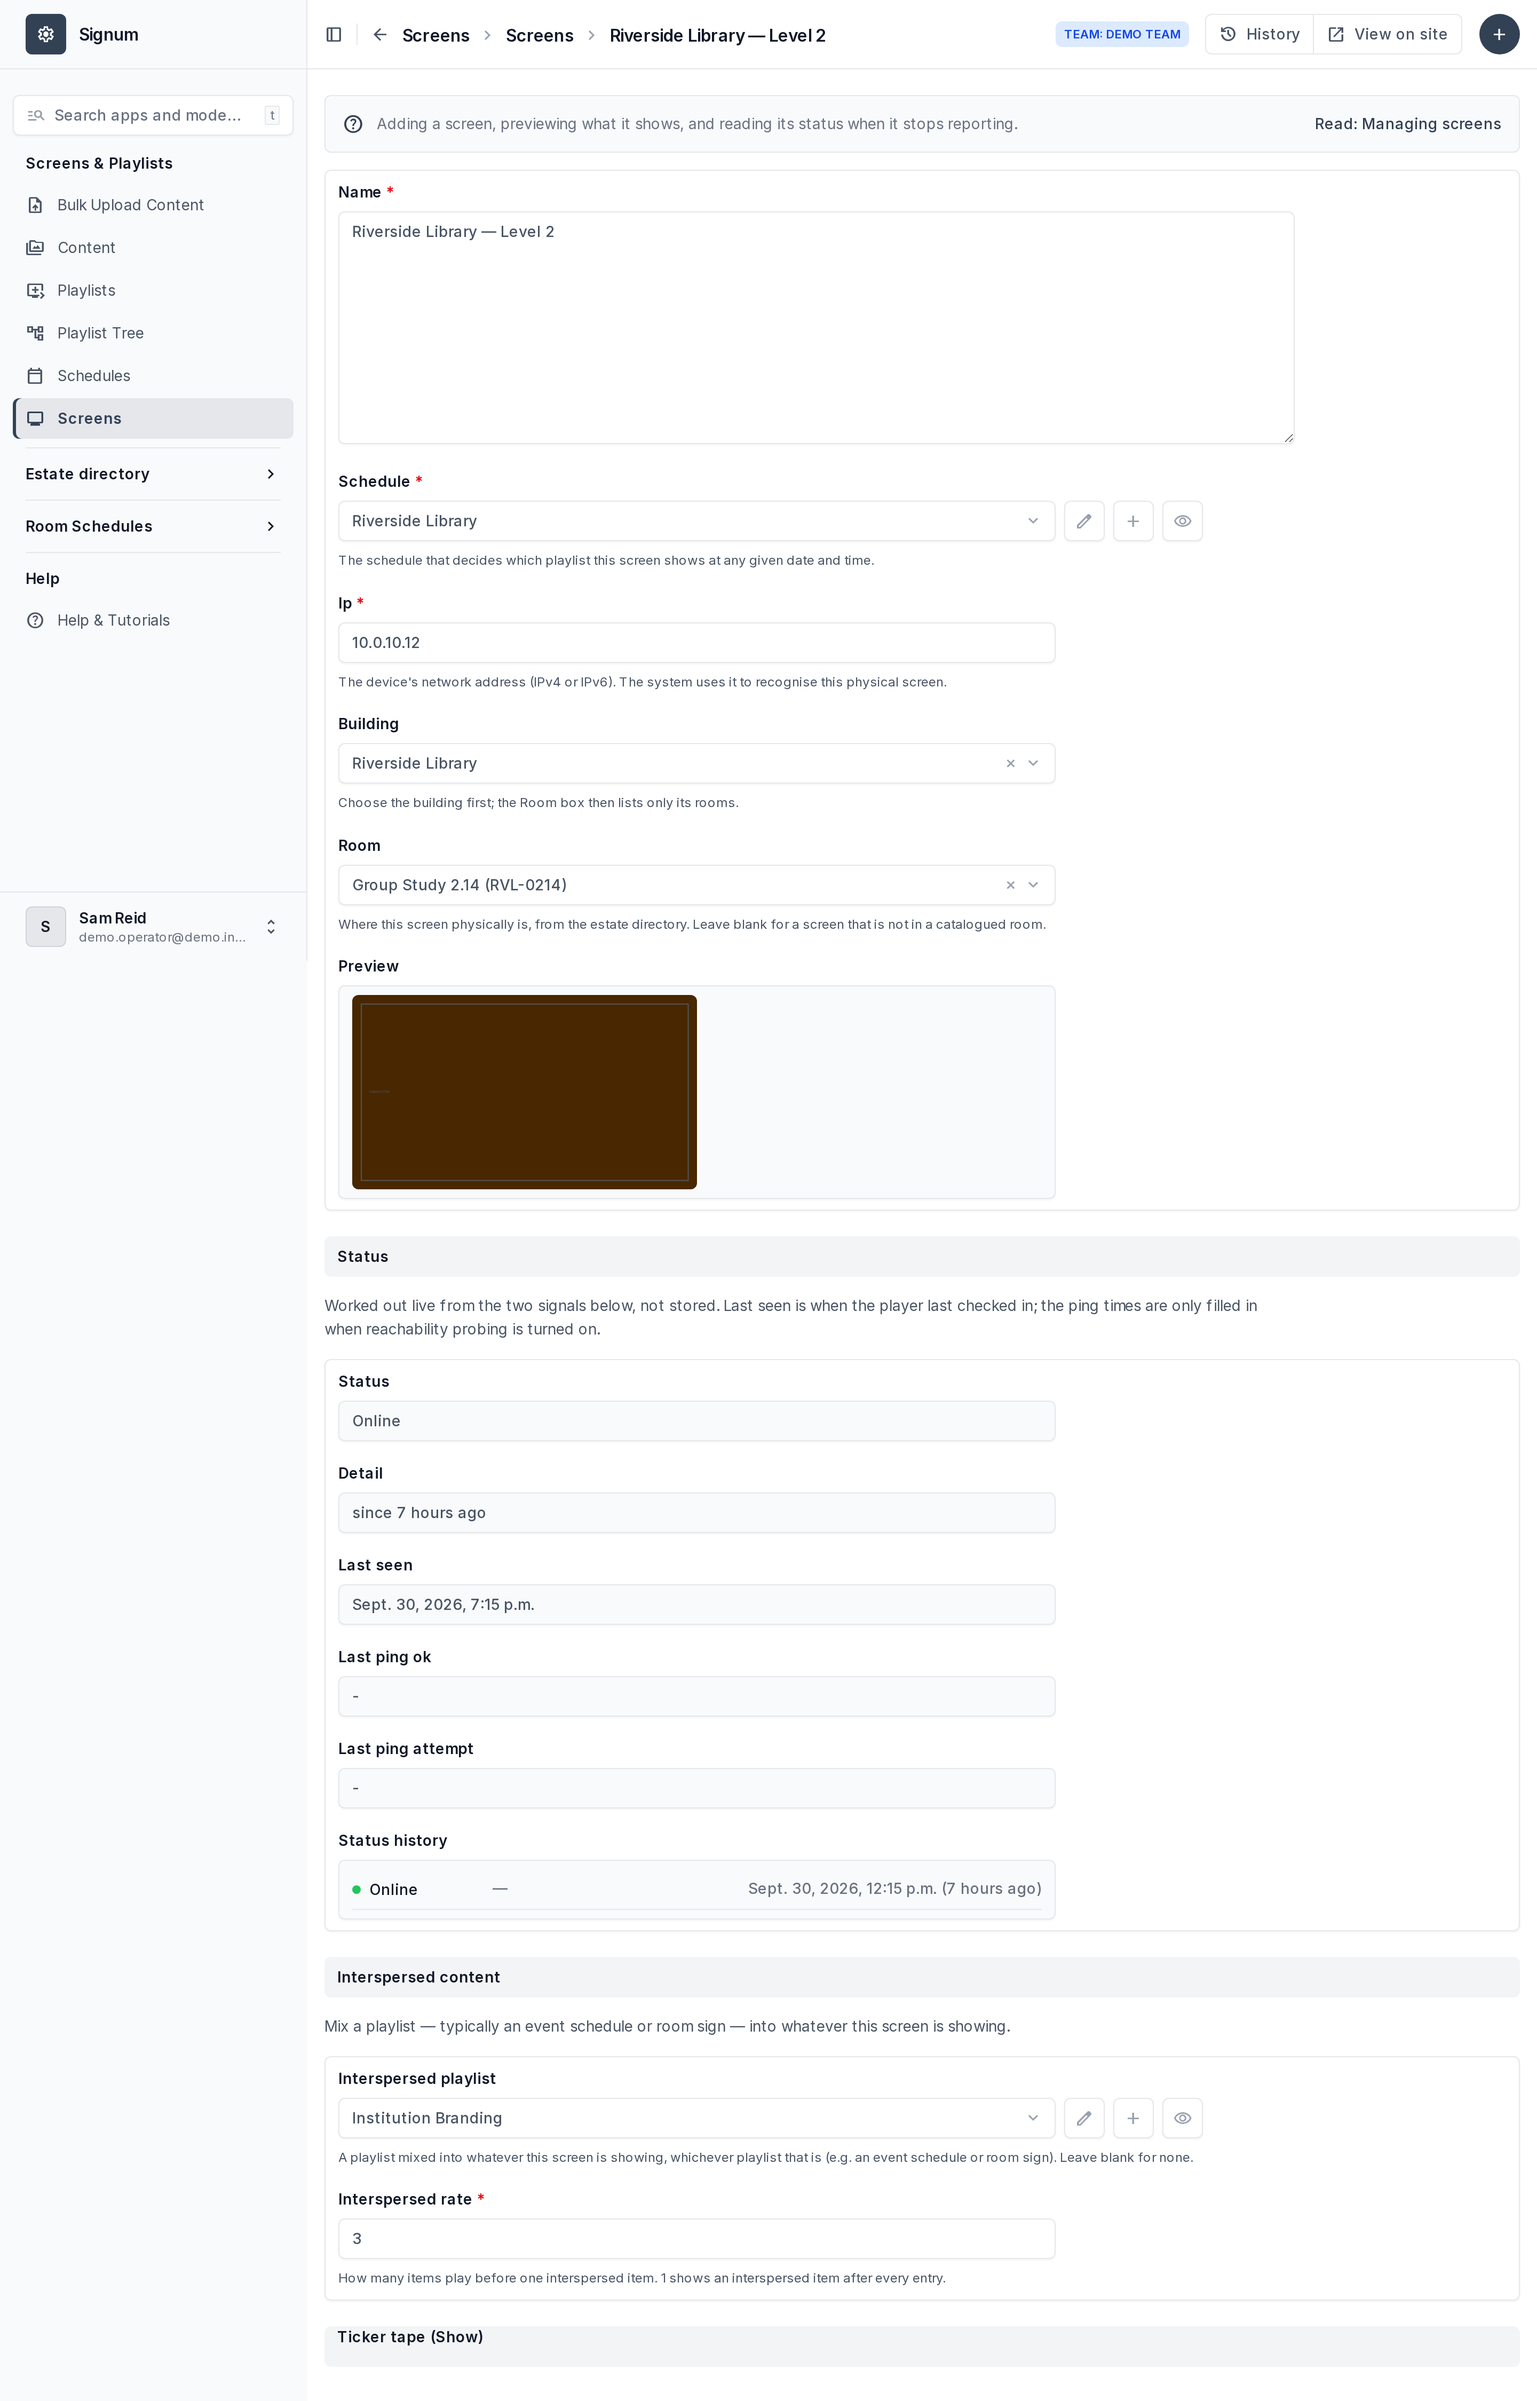
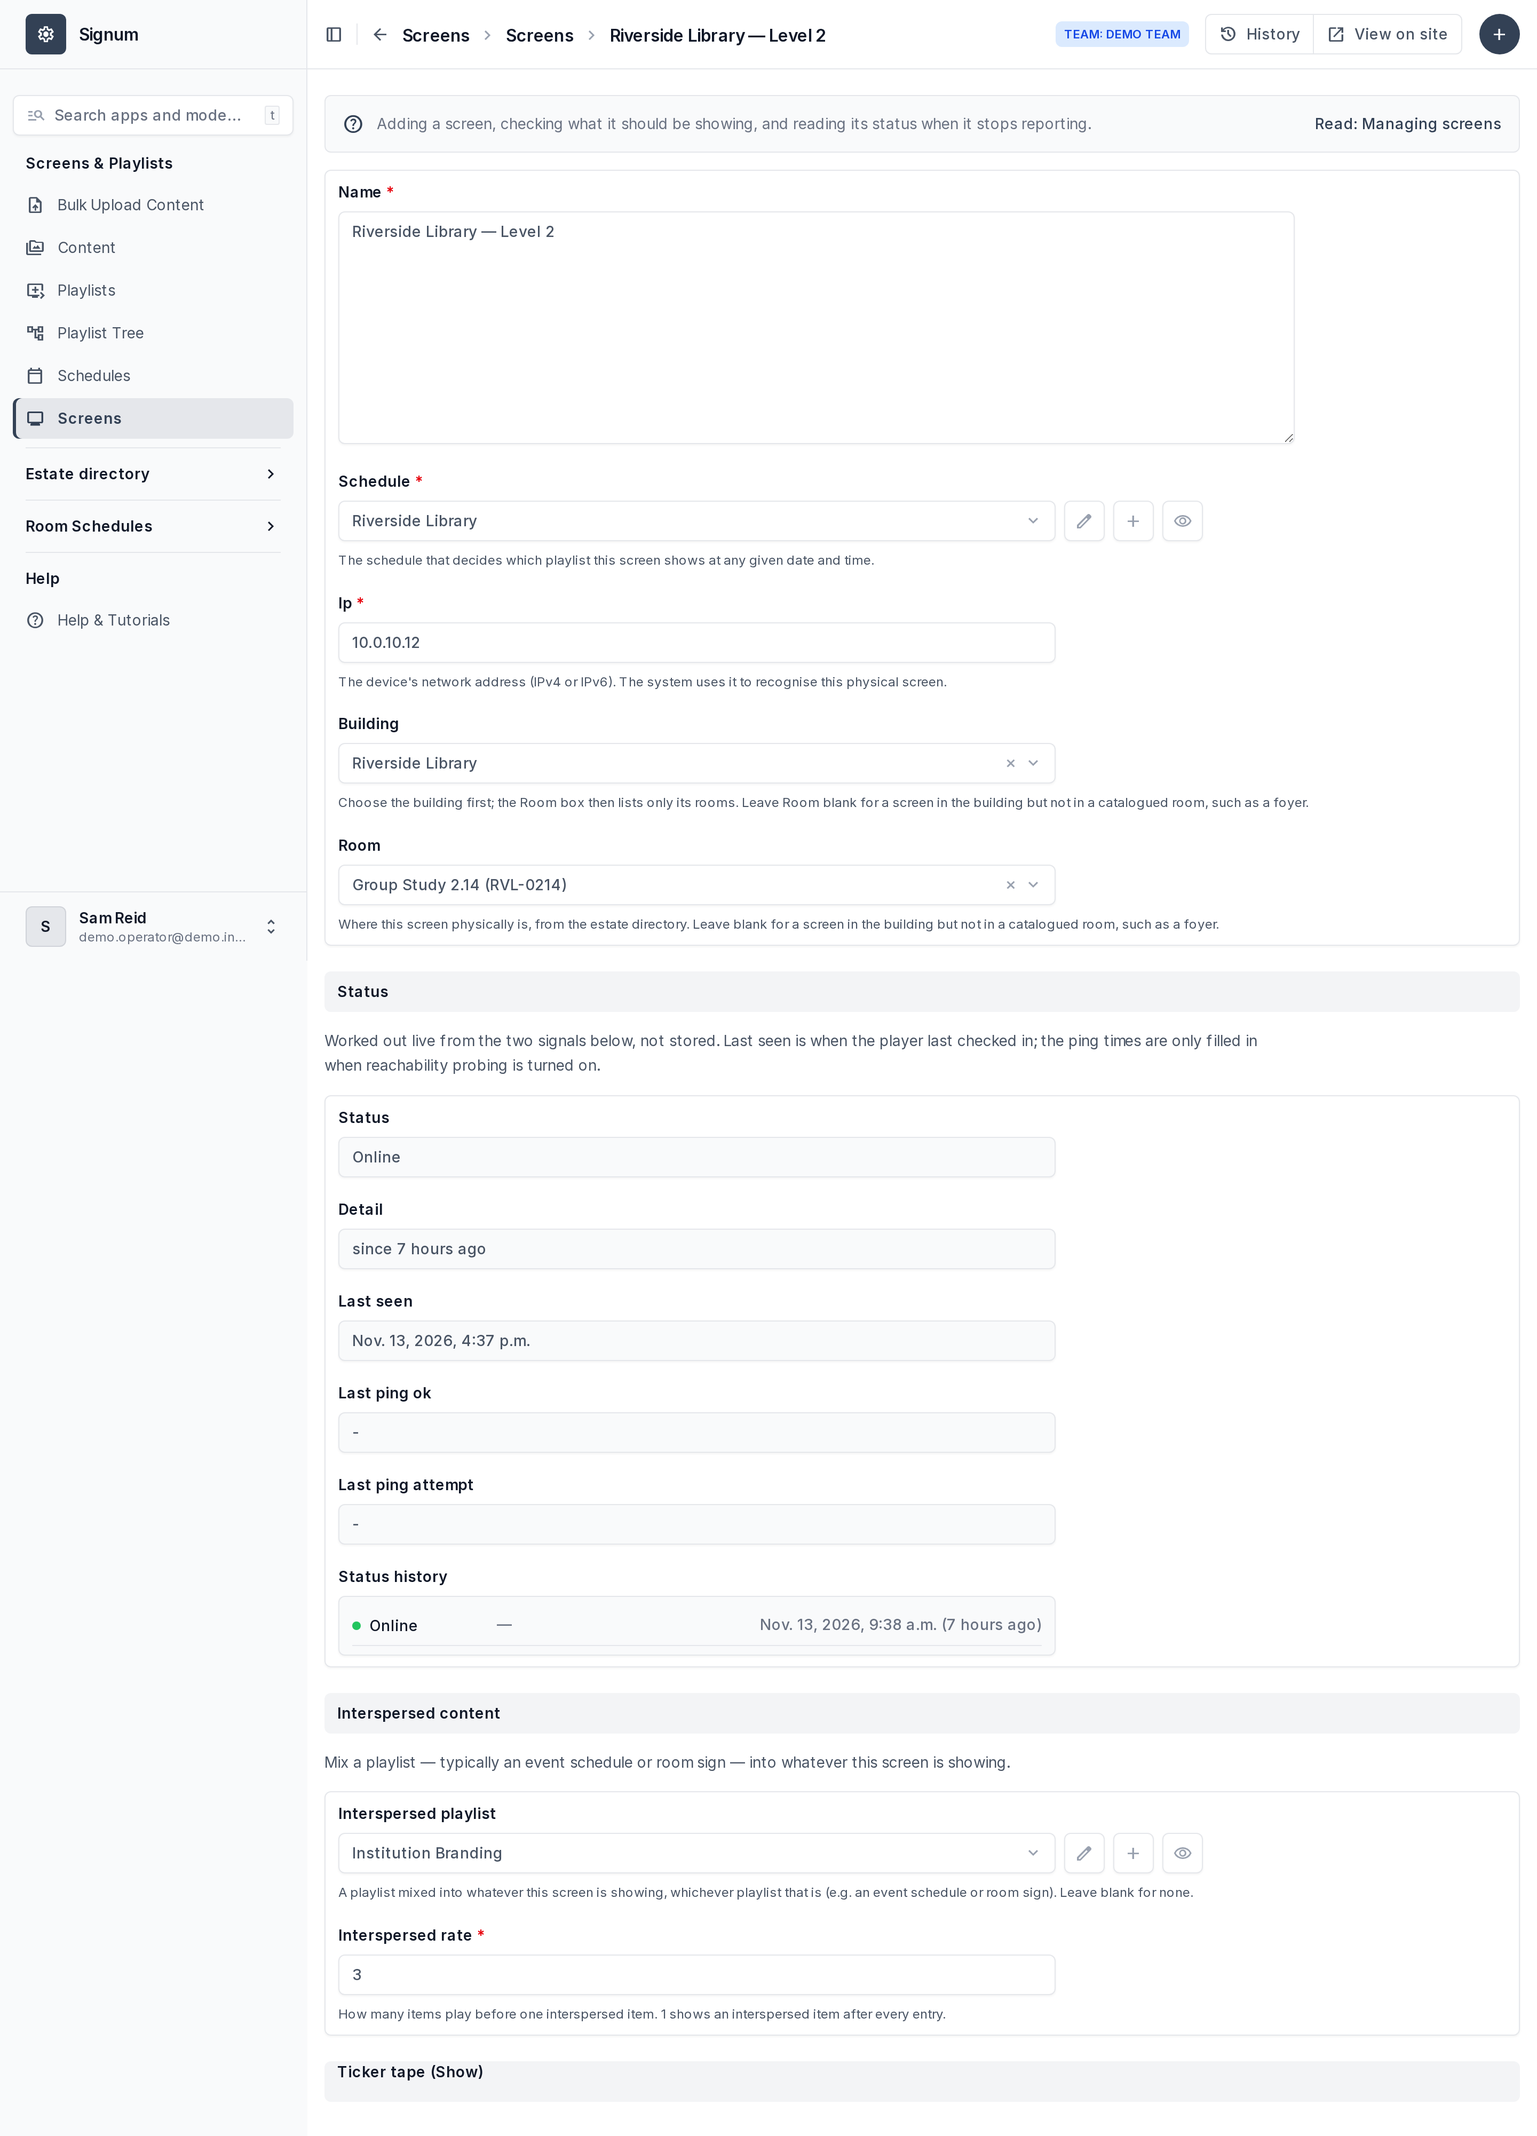
feat: Update source filtering and remove screen previews

diff --git a/screens/tests/test_source_playlist_filter.py b/screens/tests/test_source_playlist_filter.py
@@ -1,0 +1,72 @@
+from django.contrib.auth.models import Permission, User
+from django.test import Client, TestCase
+
+from screens.models import Playlist, PlaylistEntry, Source, Team
+
+
+class NotInAnyPlaylistFilterTests(TestCase):
+    """The content list's "In Playlist" filter can find content in no playlist."""
+
+    def setUp(self):
+        Team.objects.all().delete()
+        self.alpha = Team.objects.create(name="Alpha")
+        self.bravo = Team.objects.create(name="Bravo")
+
+        self.operator = User.objects.create_user('alice', 'a@x', 'pw', is_staff=True)
+        self.operator.teams.add(self.alpha)
+        self.operator.user_permissions.add(
+            *Permission.objects.filter(content_type__app_label='screens',
+                                       codename__endswith='_source'))
+        self.root = User.objects.create_superuser('root', 'r@x', 'pw')
+
+        self.posters = Playlist.objects.create(name="posters")
+        self.posters.teams.add(self.alpha)
+        self.bravo_list = Playlist.objects.create(name="bravo-list")
+        self.bravo_list.teams.add(self.bravo)
+
+        self.used = self.source("used-src", self.alpha)
+        self.unused = self.source("unused-src", self.alpha)
+        # Alpha's content, but only in a playlist Alpha cannot see.
+        self.lent = self.source("lent-src", self.alpha)
+        self.other_unused = self.source("bravo-unused-src", self.bravo)
+
+        PlaylistEntry.objects.create(playlist=self.posters, source=self.used, number=1)
+        PlaylistEntry.objects.create(playlist=self.bravo_list, source=self.lent, number=1)
+
+    @staticmethod
+    def source(name, team):
+        source = Source.objects.create(type=Source.IFRAME, name=name, url="http://x")
+        source.teams.add(team)
+        return source
+
+    def listed(self, user, query):
+        client = Client()
+        client.force_login(user)
+        response = client.get(f'/admin/screens/source/?{query}')
+        self.assertEqual(response.status_code, 200)
+        return {s.name for s in response.context['cl'].result_list}
+
+    def test_lists_only_content_in_no_playlist(self):
+        self.assertEqual(self.listed(self.operator, 'playlist=none'), {"unused-src"})
+
+    def test_content_in_another_teams_playlist_does_not_count_as_unused(self):
+        self.assertNotIn("lent-src", self.listed(self.operator, 'playlist=none'))
+
+    def test_stays_scoped_to_the_active_team(self):
+        self.assertEqual(self.listed(self.root, 'playlist=none'),
+                         {"unused-src", "bravo-unused-src"})
+        self.assertNotIn("bravo-unused-src", self.listed(self.operator, 'playlist=none'))
+
+    def test_removing_the_last_entry_makes_content_unused(self):
+        PlaylistEntry.objects.filter(source=self.used).delete()
+        self.assertIn("used-src", self.listed(self.operator, 'playlist=none'))
+
+    def test_offered_as_the_first_choice(self):
+        client = Client()
+        client.force_login(self.operator)
+        response = client.get('/admin/screens/source/')
+        self.assertContains(response, "Not in any playlist")
+
+    def test_filtering_by_one_playlist_still_works(self):
+        self.assertEqual(self.listed(self.operator, f'playlist={self.posters.pk}'),
+                         {"used-src"})

diff --git a/screens/admin.py b/screens/admin.py
@@ -306,13 +306,28 @@ class ScheduleDisplay(HideChangeFormDeleteMixin, TeamScopedAdminMixin, ModelAdmi
 
 
 class PlaylistListFilter(admin.SimpleListFilter):
+    """Filter content by playlist, including content that is in none.
+
+    "Not in any playlist" finds content that never reaches a screen, typically
+    to tidy it up. It means no playlist *at all*, not none the reader can see:
+    an item in another team's playlist is still playing somewhere, and the
+    Playlists column, which is not team-scoped either, already names that
+    playlist. Treating it as unused would invite deleting another team's
+    content.
+    """
+
     title = "In Playlist"
     parameter_name = "playlist"
+    NO_PLAYLIST = "none"
 
     def lookups(self, request, model_admin):
-        return scope_to_active_team(Playlist.objects.all(), request).values_list("id", "name")
+        return [(self.NO_PLAYLIST, "Not in any playlist"),
+                *scope_to_active_team(Playlist.objects.all(), request)
+                .values_list("id", "name")]
 
     def queryset(self, request, queryset):
+        if self.value() == self.NO_PLAYLIST:
+            return queryset.filter(playlistentry__isnull=True)
         if self.value() is None:
             return queryset
         return queryset.filter(playlistentry__playlist__id=self.value())
@@ -699,7 +714,7 @@ STATUS_HISTORY_SHOWN = 15
 
 @admin.register(Screen)
 class ScreenAdmin(TeamScopedAdminMixin, ModelAdmin):
-    readonly_fields = ('screen_preview', INTERSPERSED_UNAVAILABLE_FIELD,
+    readonly_fields = (INTERSPERSED_UNAVAILABLE_FIELD,
                        'show_status', 'show_status_detail', 'status_history',
                        'last_seen', 'last_ping_ok', 'last_ping_attempt')
     list_display = ('name', 'ip', 'show_status', 'show_status_detail', 'last_seen',
@@ -728,10 +743,14 @@ class ScreenAdmin(TeamScopedAdminMixin, ModelAdmin):
     # the *related* admin, so an operator without it gets a silently empty
     # picker.
     form = ScreenAdminForm
+    # No embedded preview of the player here, deliberately. It rendered what
+    # the schedule says the screen *should* show, on a page operators open to
+    # find out what the screen *is* showing, and was read as the latter.
+    # Status is the evidence about the device; View on site remains for
+    # checking the configuration.
     fieldsets = (
         (None, {
-            'fields': ('name', 'schedule', 'ip', 'building', 'room', 'teams',
-                       'screen_preview'),
+            'fields': ('name', 'schedule', 'ip', 'building', 'room', 'teams'),
         }),
         ('Status', {
             'fields': ('show_status', 'show_status_detail',

diff --git a/screens/tests/test_screen_form_preview.py b/screens/tests/test_screen_form_preview.py
@@ -1,0 +1,43 @@
+"""The screen form carries no embedded preview of the player.
+
+It showed what the schedule says the screen *should* display, on the page
+operators open to learn what the screen *is* displaying, and was read as the
+latter. View on site stays as the deliberate way to check the configuration.
+Content keeps its preview: there it shows the file itself, which is exactly
+what it claims to.
+"""
+from django.contrib.auth.models import User
+from django.test import Client, TestCase
+
+from screens.models import Playlist, Schedule, Screen, Source, Team
+
+
+class ScreenFormPreviewTests(TestCase):
+    def setUp(self):
+        team = Team.objects.create(name="Alpha")
+        playlist = Playlist.objects.create(name="listA")
+        playlist.teams.add(team)
+        schedule = Schedule.objects.create(name="sched", default_playlist=playlist)
+        schedule.teams.add(team)
+        self.screen = Screen.objects.create(name="foyer", ip="10.0.0.1", schedule=schedule)
+        self.screen.teams.add(team)
+        self.source = Source.objects.create(type=Source.IFRAME, name="web", url="http://x")
+        self.source.teams.add(team)
+
+        self.client = Client()
+        self.client.force_login(User.objects.create_superuser('root', 'r@x', 'pw'))
+
+    def test_screen_form_has_no_embedded_player(self):
+        response = self.client.get(f'/admin/screens/screen/{self.screen.pk}/change/')
+        self.assertEqual(response.status_code, 200)
+        self.assertNotIn('screen_preview', response.context['adminform'].readonly_fields)
+        self.assertNotContains(response, f'<iframe src="{self.screen.get_absolute_url()}"')
+
+    def test_screen_form_still_offers_view_on_site(self):
+        response = self.client.get(f'/admin/screens/screen/{self.screen.pk}/change/')
+        self.assertContains(response, '/admin/r/')
+        self.assertTrue(response.context['has_absolute_url'])
+
+    def test_content_form_keeps_its_preview(self):
+        response = self.client.get(f'/admin/screens/source/{self.source.pk}/change/')
+        self.assertIn('image_preview', response.context['adminform'].readonly_fields)

diff --git a/screens/models/screen.py b/screens/models/screen.py
@@ -1,6 +1,5 @@
 from django.core.validators import MaxValueValidator, MinValueValidator
 from django.db import models
-from django.template.loader import get_template
 from django.urls import reverse
 from datetime import timedelta
 from django.db.models import Case, CharField, F, OuterRef, Q, Subquery, Value, When
@@ -377,13 +376,6 @@ class Screen(models.Model):
     def online(self):
         return self.status() == ScreenStatus.ONLINE
     online.boolean = True
-
-    def screen_preview(self):
-        if self.id:
-            return get_template("screens/screen_preview.html").render({"screen_url": self.get_absolute_url()})
-
-    screen_preview.short_description = 'Preview'
-        
 
     def __str__(self):
         return self.name

diff --git a/helpdocs/registry.py b/helpdocs/registry.py
@@ -148,8 +148,8 @@ PAGES = (
     ),
     Page(
         audience=USERS, slug='screens', section='Scheduling & screens',
-        summary='Adding a screen, previewing what it shows, and reading its '
-                'status when it stops reporting.',
+        summary='Adding a screen, checking what it should be showing, and '
+                'reading its status when it stops reporting.',
         admin_url_names=(
             'screens_screen_changelist',
             'screens_screen_change',

diff --git a/helpdocs/content/users/troubleshooting.md b/helpdocs/content/users/troubleshooting.md
@@ -14,9 +14,10 @@ at all — the content is not the problem. See
 schedule, and open that. Does its default playlist have content in it? Is a rule
 active right now that points at an empty playlist?
 
-**Preview it.** Open the screen and scroll to **Preview**. If the preview shows
-the right thing but the display doesn't, the problem is at the display, not in
-your configuration.
+**Compare it with what the system is sending.** Open the screen and use **View on
+site**. That shows what the screen *should* be showing. If it shows the right
+thing but the display doesn't, the problem is at the display, not in your
+configuration.
 
 !!! note "One item held for a long time is normal"
     A playlist with exactly one piece of content holds it for an hour instead of
@@ -49,7 +50,8 @@ have to publish anything.
 - Renaming content changes nothing on screen — the name is only ever seen by you.
 
 If it still hasn't appeared after five minutes, confirm the screen is online and
-use **Preview** to see what the system thinks it should be showing.
+use **View on site** on the screen to see what the system thinks it should be
+showing.
 
 ## The screen says it isn't configured
 

diff --git a/helpdocs/content/users/screens.md b/helpdocs/content/users/screens.md
@@ -142,14 +142,17 @@ dark, when it came back, and why. Kept for {{ config.SCREEN_HISTORY_DAYS }} days
 except that a screen's most recent change is never removed, so "offline since
 last Tuesday" stays answerable however long it has been.
 
-## Previewing a screen
+## Checking what a screen should be showing
 
-Open the screen and scroll to **Preview** for a live view of exactly what it is
-showing right now, embedded in the page. **View on site** opens the same thing
-full size in a new tab.
+Open the screen and use **View on site**. It plays, in a new tab, what the
+system is sending to that screen right now — its schedule, playlists,
+interspersed content and ticker, as the display would put them together.
 
 This is the quickest way to confirm a schedule change did what you meant, without
-walking to the display.
+walking to the display. It is **not** a picture of the display itself: it shows
+what the screen *should* be showing. If the display is off, frozen or
+disconnected, this tab still looks fine. To find out whether the display is
+actually working, check its **Status** (above).
 
 ## Finding screens
 

diff --git a/helpdocs/content/users/content.md b/helpdocs/content/users/content.md
@@ -76,7 +76,11 @@ If a file is rejected, it will be one of these:
 On the **Content** list you can:
 
 - **Search** by name.
-- **Filter by playlist**, to see everything currently in one playlist.
+- **Filter by playlist**, to see everything currently in one playlist. The
+  first choice, **Not in any playlist**, shows content that isn't in any
+  playlist and so isn't showing on any screen — handy for tidying up old
+  uploads. Content that's in another team's playlist doesn't count as unused,
+  even if you can't see that playlist: it's still playing somewhere.
 - **Filter by type**, to see just images, videos or websites.
 - **Browse by date** using the year/month links along the top, which work on the
   date the item was uploaded.

diff --git a/helpdocs/content/users/ticker-tape.md b/helpdocs/content/users/ticker-tape.md
@@ -78,13 +78,13 @@ Leave any override blank to keep the preset's value for that one thing.
 - **Front-load the important part.** Someone glancing at the screen sees the
   start of the message, not the end.
 - **Check the speed.** Fast enough to come round often, slow enough to read.
-  Preview it before leaving.
+  Check it with **View on site** before leaving.
 {% endif %}
 
 ## Checking it
 
-Use **Preview** on the screen form, or **View on site**, to see the ticker
-running over the real content. Judge it there rather than guessing.
+Use **View on site** on the screen form to see the ticker running over the
+real content. Judge it there rather than guessing.
 
 ## Turning it off
 
